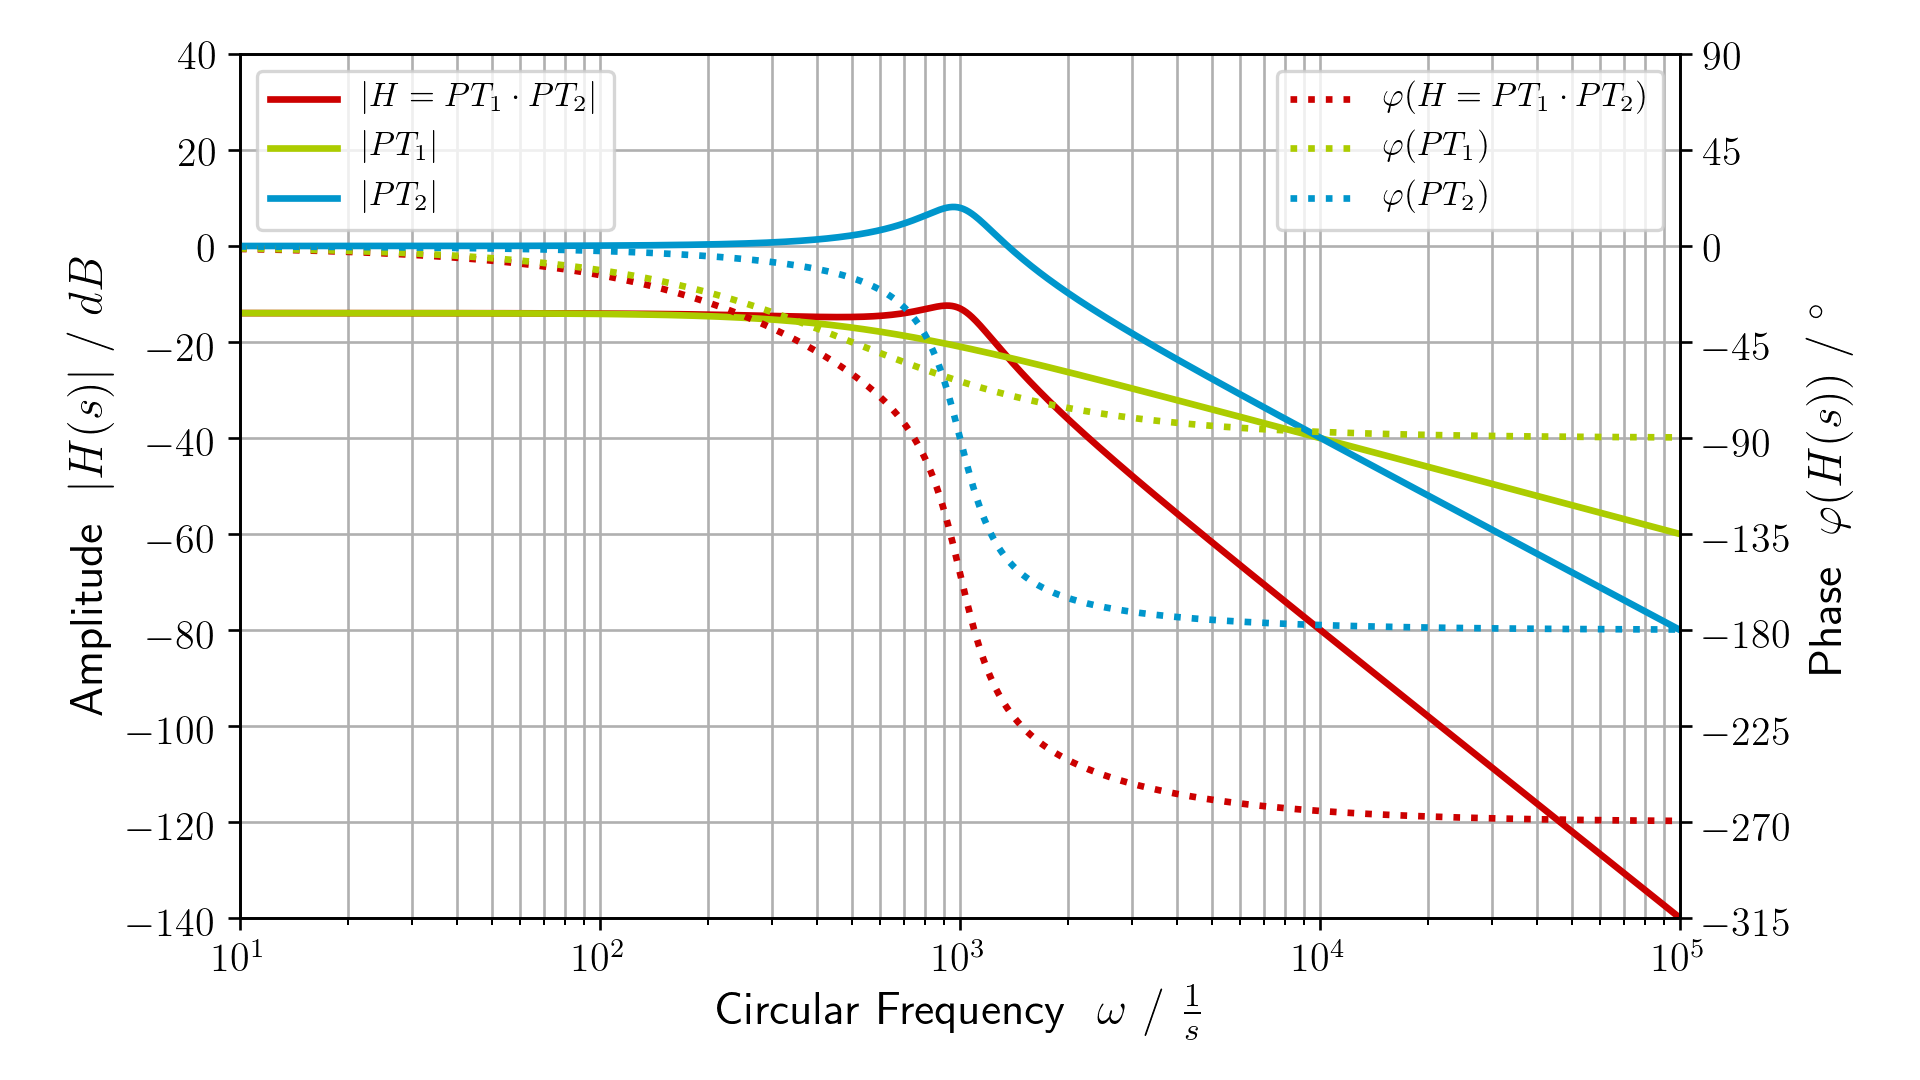
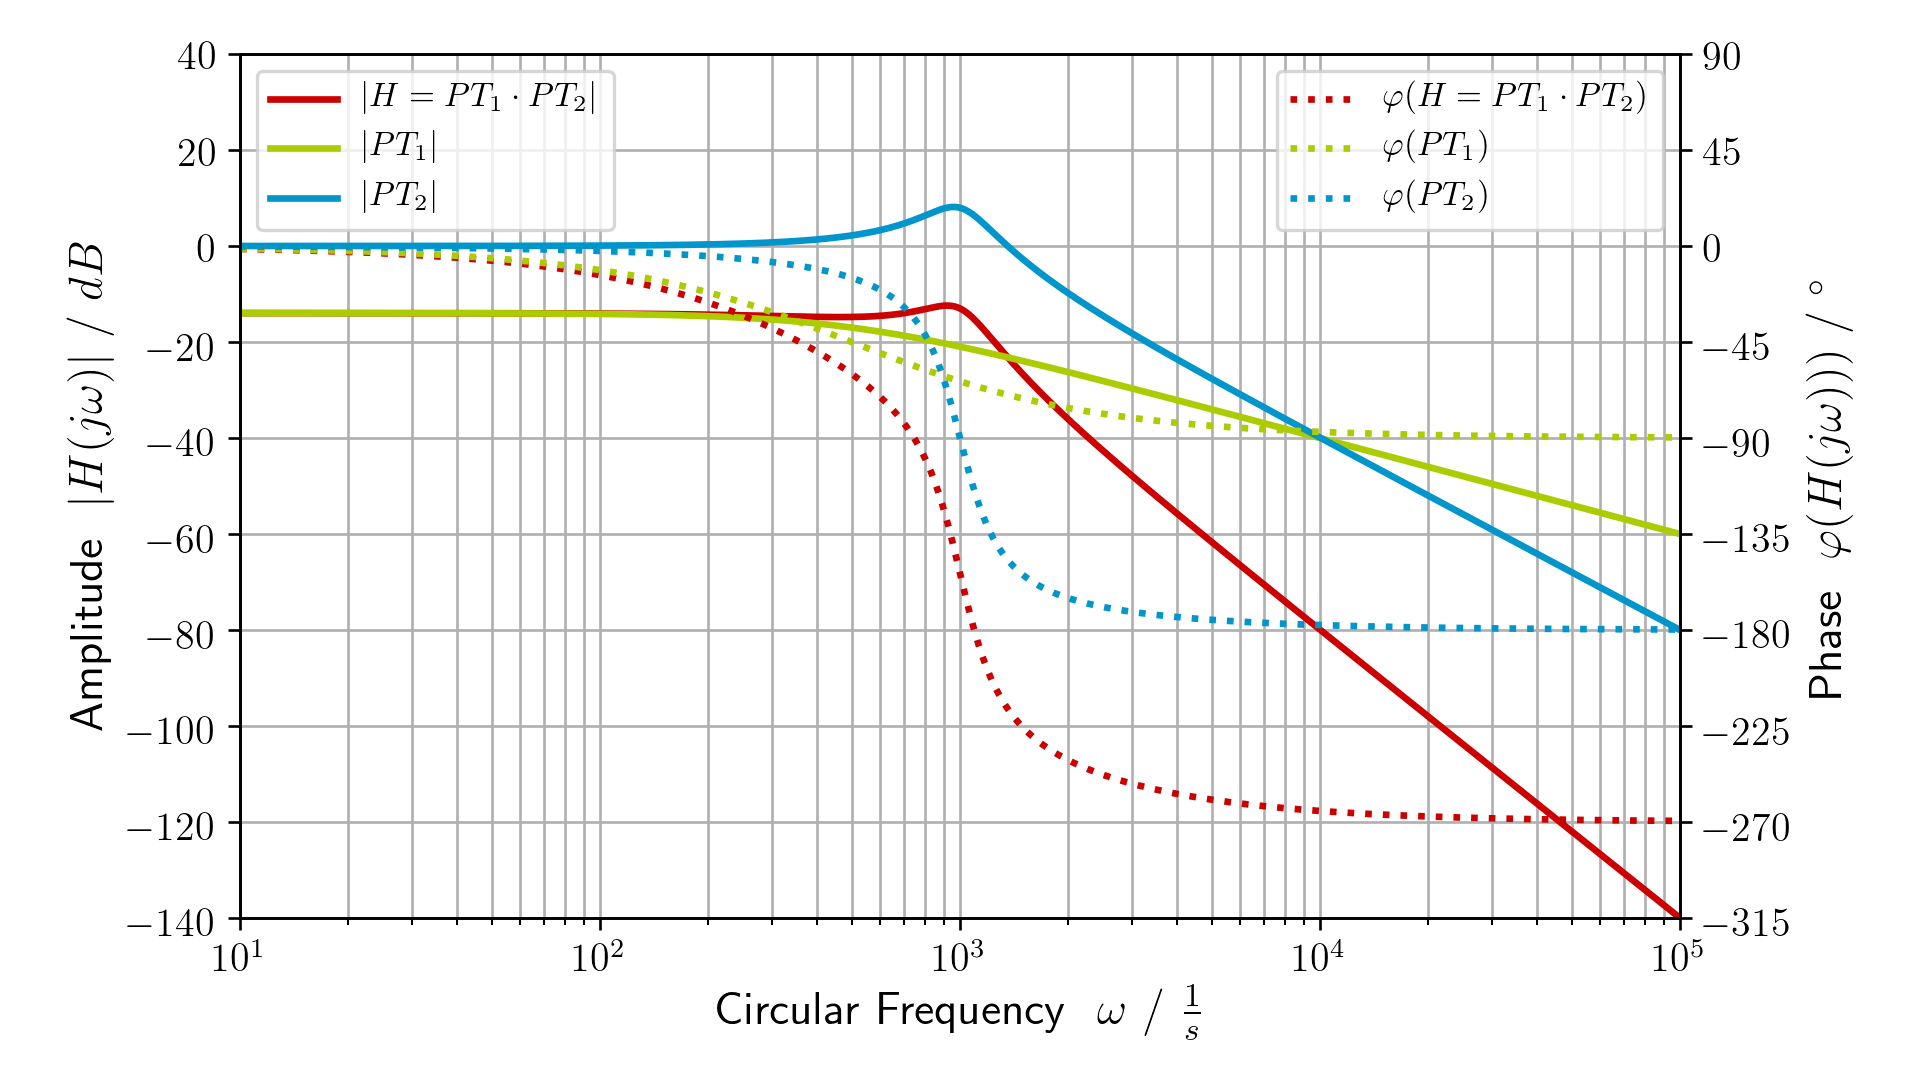
Improved diagramm labeling

Changed region(s): [[0.9375, 0.3056, 0.9688, 0.6417], [0.0312, 0.2139, 0.0625, 0.4583], [0.0312, 0.4889, 0.0625, 0.6722]]

diff --git a/regelungstechnik.py b/regelungstechnik.py
@@ -392,14 +392,18 @@ class BodeDiagramm(object):
         ax_phi.set_ylim([self.phi_ticks[0], self.phi_ticks[-1]])
         ax_phi.set_yticks(self.phi_ticks)
 
+        x_label = r"Circular Frequency "
+        amp_label = r"Amplitude "
+        phi_label = r"Phase "
+
         if self.lang == "DE":
-            x_label = r"Kreisfrequenz $\ \omega \ / \ \frac{1}{s}$"
-            amp_label = r"Betrag $\ |H(s)| \ / \ dB$"
-            phi_label = r"Phase $\ \varphi(H(s)) \ / \ ^\circ$"
-        else:
-            x_label = r"Circular Frequency $\ \omega \ / \ \frac{1}{s}$"
-            amp_label = r"Amplitude $\ |H(s)| \ / \ dB$"
-            phi_label = r"Phase $\ \varphi(H(s)) \ / \ ^\circ$"
+            x_label = r"Kreisfrequenz "
+            amp_label = r"Betrag "
+            phi_label = r"Phase "
+
+        x_label += r"$\ \omega \ / \ \frac{1}{s}$"
+        amp_label += r"$\ |H(j \omega)| \ / \ dB$"
+        phi_label += r"$\ \varphi(H(j \omega))) \ / \ ^\circ$"
 
         ax_amp.set_xlabel(x_label)
         ax_amp.set_ylabel(amp_label)
@@ -491,8 +495,6 @@ class StepResponse(object):
 
         ax.set_ylim(lim[0], lim[1])
 
-        time_label = r"$\ t \ / \ " + self.time_prefix + r"s$"
-        w_label = r"$\ w(t)$"
         x_label = r"Time "
         y_label = r"Step Response "
 
@@ -500,8 +502,11 @@ class StepResponse(object):
             x_label = r"Zeit "
             y_label = r"Sprungantwort "
 
-        ax.set_xlabel(x_label + time_label)
-        ax.set_ylabel(y_label + w_label)
+        x_label += r"$\ t \ / \ " + self.time_prefix + r"s$"
+        y_label += r"$\ w(t)$"
+
+        ax.set_xlabel(x_label)
+        ax.set_ylabel(y_label)
 
         if not canvas:
             ax.legend(loc="upper right")
